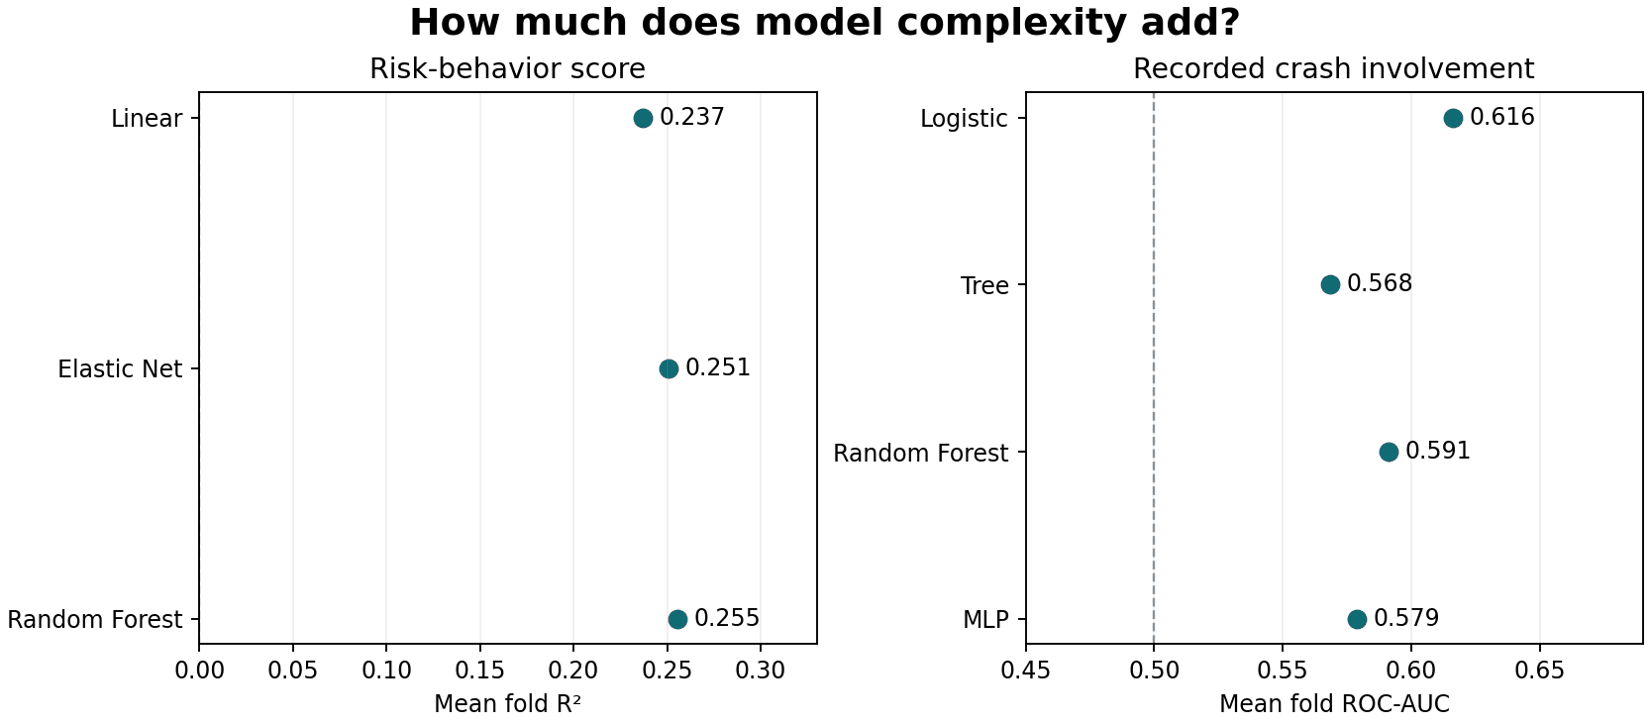
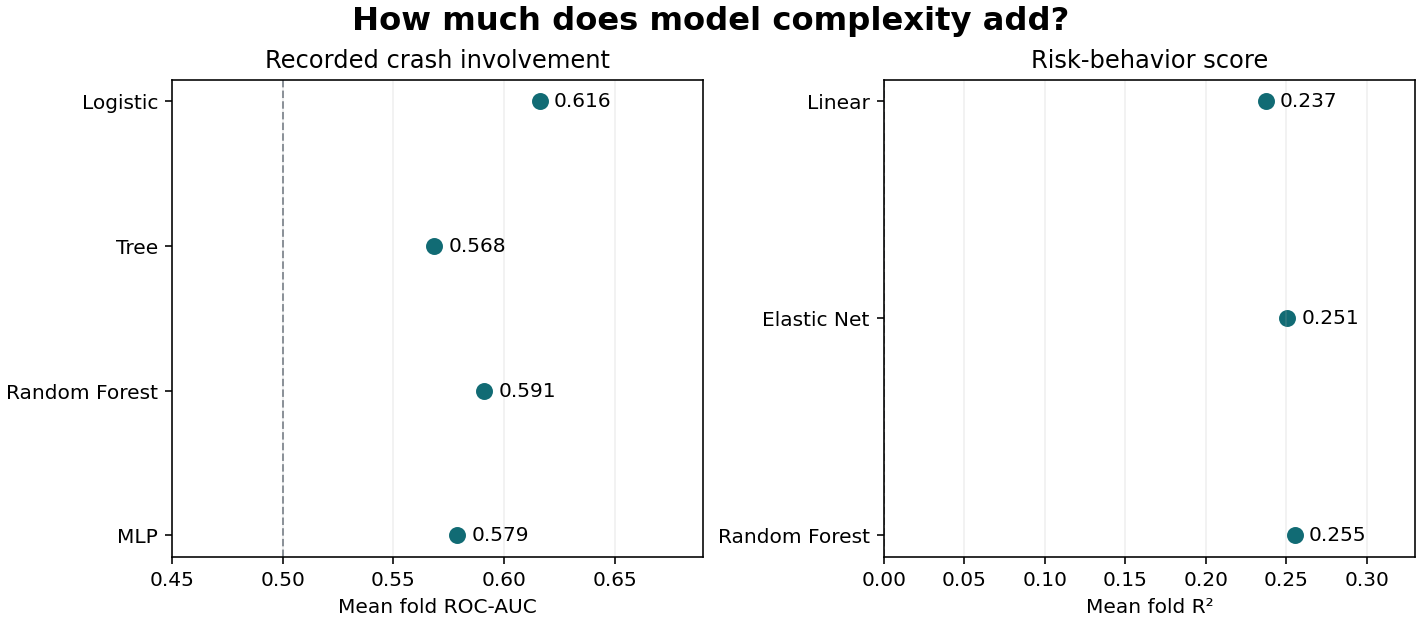
Align chart order and report held-out predictor importance

diff --git a/analysis.py b/analysis.py
@@ -59,6 +59,19 @@ class_models={
  'Random Forest':Pipeline([('impute',SimpleImputer(strategy='mean')),('model',RandomForestClassifier(n_estimators=500,max_depth=10,class_weight='balanced',random_state=SEED,n_jobs=1))]),
  'MLP':Pipeline([('impute',SimpleImputer(strategy='mean')),('scale',StandardScaler()),('model',MLPClassifier(hidden_layer_sizes=(10,5),max_iter=5000,alpha=.001,random_state=SEED))])}
 from sklearn.base import clone
+from sklearn.inspection import permutation_importance
+
+
+def held_out_importance(model, predictors, outcome, fold, scoring):
+    result = permutation_importance(
+        model, predictors, outcome, scoring=scoring, n_repeats=12,
+        random_state=SEED + fold,
+    )
+    return pd.Series(result.importances_mean, index=predictors.columns)
+
+
+crash_importances = []
+risk_importances = []
 classification_rows=[];oof_class={};class_warnings=[]
 for name,pipe in class_models.items():
     oof=np.full(len(yc),np.nan)
@@ -67,6 +80,10 @@ for name,pipe in class_models.items():
         with warnings.catch_warnings(record=True) as caught:
             warnings.simplefilter('always');fit.fit(Xc.iloc[tr],yc.iloc[tr])
         for w in caught:class_warnings.append({'modelo':name,'fold':fold,'categoría':w.category.__name__,'mensaje':str(w.message)})
+        if name == 'Logística':
+            crash_importances.append(held_out_importance(
+                fit, Xc.iloc[te], yc.iloc[te], fold, 'roc_auc'
+            ))
         proba=fit.predict_proba(Xc.iloc[te])[:,1];oof[te]=proba
         classification_rows.append({'modelo':name,'fold':fold,'N_train':len(tr),'N_test':len(te),'AUC':roc_auc_score(yc.iloc[te],proba),'AP':average_precision_score(yc.iloc[te],proba),'Brier':brier_score_loss(yc.iloc[te],proba),'balanced_accuracy':balanced_accuracy_score(yc.iloc[te],proba>=.5)})
     assert np.isfinite(oof).all();oof_class[name]=oof
@@ -87,6 +104,10 @@ for representation,cols in [('Dominios',domains),('Facetas',facets)]:
             with warnings.catch_warnings(record=True) as caught:
                 warnings.simplefilter('always');fit.fit(Xr.iloc[tr][cols],yr.iloc[tr])
             for w in caught:reg_warnings.append({'representación':representation,'modelo':name,'fold':fold,'mensaje':str(w.message)})
+            if representation == 'Facetas' and name == 'Random Forest':
+                risk_importances.append(held_out_importance(
+                    fit, Xr.iloc[te][cols], yr.iloc[te], fold, 'neg_mean_absolute_error'
+                ))
             pred=fit.predict(Xr.iloc[te][cols]);oof[te]=pred
             reg_rows.append({'representación':representation,'modelo':name,'fold':fold,'N_train':len(tr),'N_test':len(te),'R2':r2_score(yr.iloc[te],pred),'RMSE':np.sqrt(mean_squared_error(yr.iloc[te],pred)),'MAE':mean_absolute_error(yr.iloc[te],pred)})
         assert np.isfinite(oof).all();reg_oof[(representation,name)]=oof
@@ -98,14 +119,29 @@ regression_folds.to_csv(root / 'results/regression-folds.csv', index=False)
 classification_summary.to_csv(root / 'results/classification-summary.csv')
 regression_summary.to_csv(root / 'results/regression-summary.csv')
 
+for task, importances, metric in [
+    ('Crash involvement', crash_importances, 'ROC-AUC decrease'),
+    ('Risky-driving score', risk_importances, 'MAE increase'),
+]:
+    fold_scores = pd.DataFrame(importances)
+    summary = pd.DataFrame({
+        'mean_change': fold_scores.mean(),
+        'fold_sd': fold_scores.std(),
+        'positive_folds': fold_scores.gt(0).sum(),
+    }).sort_values('mean_change', ascending=False)
+    summary.insert(0, 'metric', metric)
+    summary.index.name = 'predictor'
+    filename = 'crash-importance.csv' if task == 'Crash involvement' else 'risk-importance.csv'
+    summary.to_csv(root / 'results' / filename)
+
 fig, axes = plt.subplots(1, 2, figsize=(9.8, 4.3), layout='constrained')
 specs = [
-    (axes[0], regression_summary.loc['Facetas']['R2']['mean'],
-     ['Lineal', 'Elastic Net', 'Random Forest'], ['Linear', 'Elastic Net', 'Random Forest'],
-     'Risk-behavior score', 'Mean fold R²', 0, (.0, .33)),
-    (axes[1], classification_summary['AUC']['mean'],
+    (axes[0], classification_summary['AUC']['mean'],
      ['Logística', 'Árbol', 'Random Forest', 'MLP'], ['Logistic', 'Tree', 'Random Forest', 'MLP'],
      'Recorded crash involvement', 'Mean fold ROC-AUC', .5, (.45, .69)),
+    (axes[1], regression_summary.loc['Facetas']['R2']['mean'],
+     ['Lineal', 'Elastic Net', 'Random Forest'], ['Linear', 'Elastic Net', 'Random Forest'],
+     'Risk-behavior score', 'Mean fold R²', 0, (.0, .33)),
 ]
 for ax, series, keys, names, title, xlabel, baseline, limits in specs:
     values = series.loc[keys].values
@@ -117,7 +153,7 @@ for ax, series, keys, names, title, xlabel, baseline, limits in specs:
     for y, val in enumerate(values):
         ax.annotate(f'{val:.3f}', (val, y), xytext=(7, 0), textcoords='offset points', va='center')
 fig.suptitle('How much does model complexity add?', fontsize=16, weight='bold')
-fig.savefig(root / 'figures/model-comparison.png', dpi=170)
+fig.savefig(root / 'figures/model-comparison.png', dpi=145)
 plt.close(fig)
 
 # Descriptive correlation matrix for the same five styles and five domains.

diff --git a/README.md b/README.md
@@ -2,7 +2,7 @@
 
 **Do more complex models improve performance on road-safety research data?** This project compares regression baselines with regularized, tree-based and neural-network models under shared cross-validation splits. The two tasks are estimating a self-reported risky-driving score and classifying retrospective reports of crash involvement.
 
-![Mean cross-validated model performance in the two road-safety tasks](figures/model-comparison.png)
+![Mean cross-validated performance for recorded crash involvement (left) and the risky-driving score (right)](figures/model-comparison.png)
 
 ## Data and measures
 
@@ -46,6 +46,16 @@ Disinhibition was the first split. The tree then used dissociative driving style
 | Random Forest | **.255** | **4.76** |
 
 The forest reduced mean absolute error by about **0.10 score points** relative to ordinary linear regression. The mean-only reference had an error of 5.71 points. R² and error refer to predictions of the total score.
+
+## Which predictors contributed most?
+
+For **recorded crash involvement**, the logistic regression's mean ROC-AUC decreased most when distracted driving was shuffled (**.047**), followed by risky driving style (**.023**) and the PID-5 domain antagonism (**.022**). The model used personality domains, driving styles and specific driving behaviors.
+
+For the **total risky-driving score**, the Random Forest used the 25 PID-5 facets. Shuffling risk taking (`desiar`), deceitfulness (`anteng`) and distractibility (`desidis`) increased mean absolute error by **0.30**, **0.20** and **0.16** score points, respectively. For these three facets, the average effect was positive in all five folds.
+
+These exploratory estimates average 12 permutations per predictor on each of the five held-out folds. Correlated predictors can share or substitute for information, so each value reflects the fitted model's reliance on that predictor in the presence of the others.
+
+[Crash predictor importance](results/crash-importance.csv) · [Risky-driving facet importance](results/risk-importance.csv)
 
 ## Evaluation and reproducibility
 
